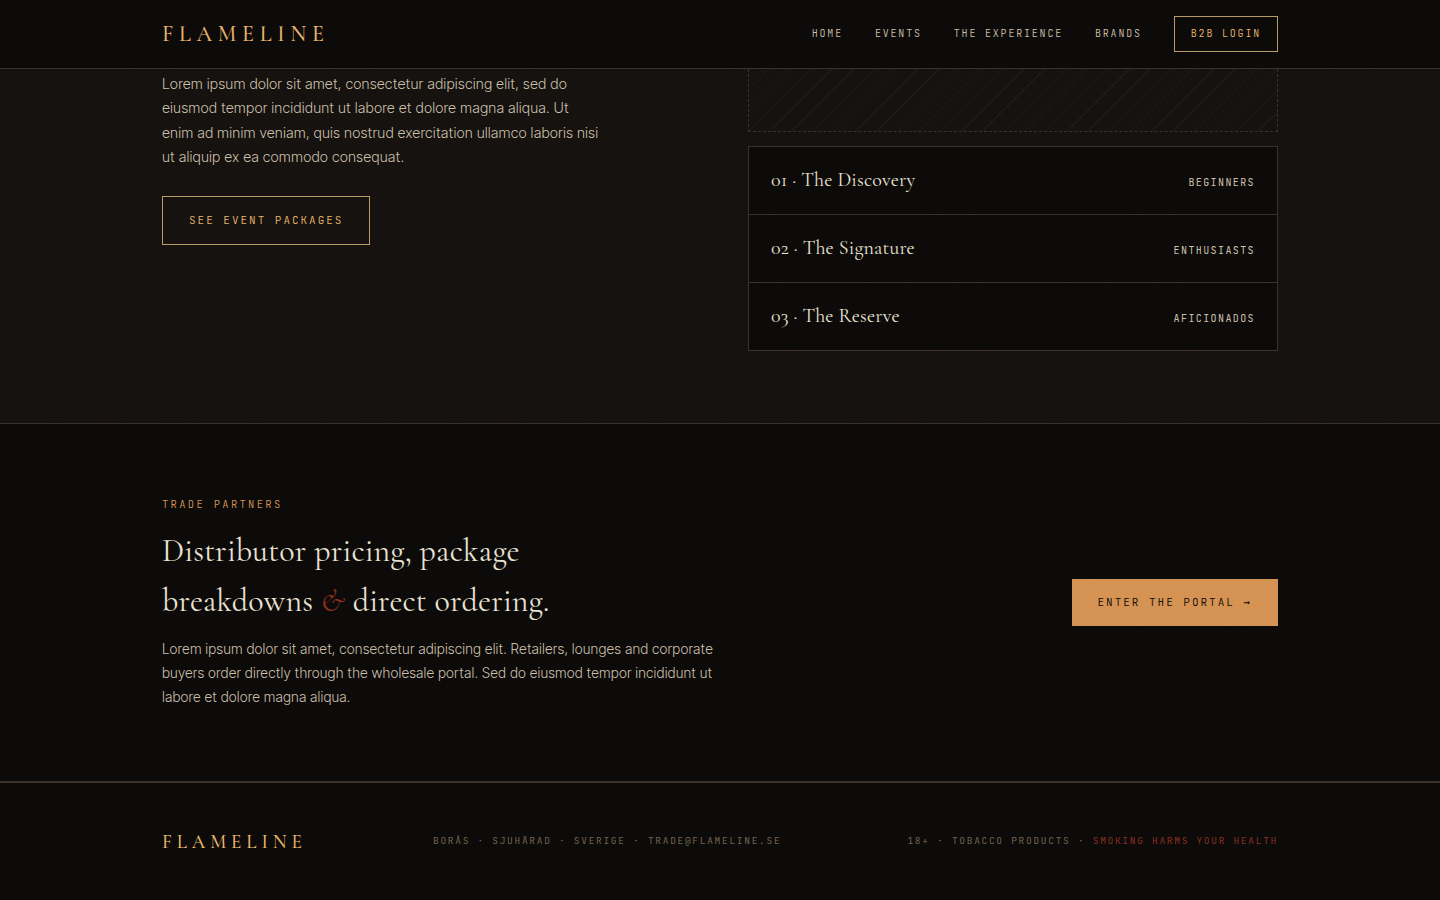
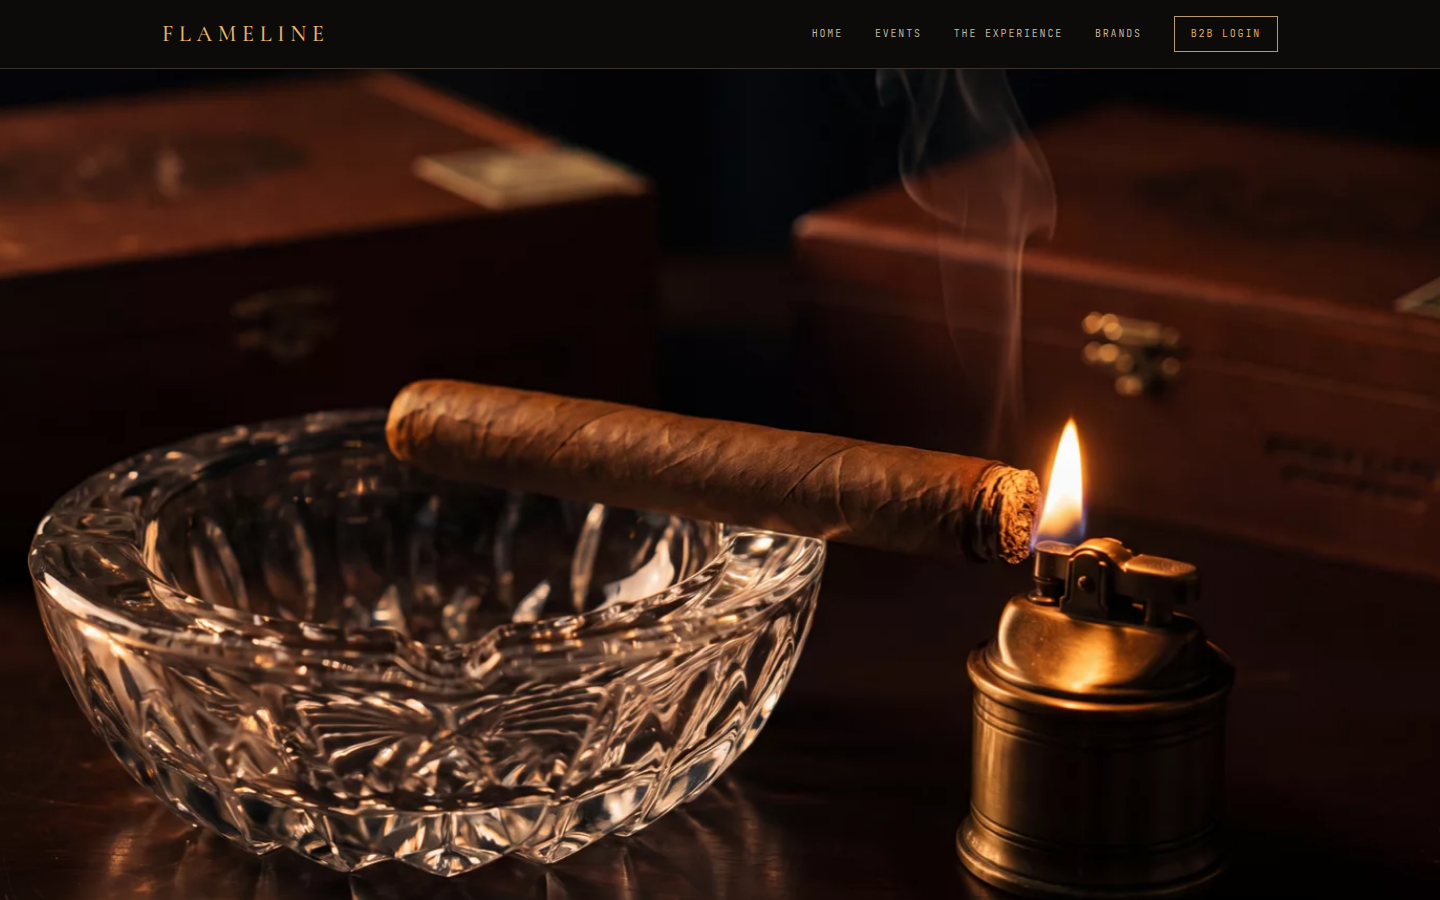
fix: no particles without atmosphere; fetch a failing clip once; finale copy clears before the body arrives
Claude-Session: https://claude.ai/code/session_01RKmJ1iWrN7f18RWAJzrLnn

diff --git a/lib/scroll-world/scrub-engine.js b/lib/scroll-world/scrub-engine.js
@@ -109,7 +109,10 @@ function mountScrollWorld(container, config) {
     sky.appendChild(el('div', 'sw-sky__grad'));
     sky.appendChild(el('div', 'sw-sky__glow'));
   }
-  const particles = el('div', 'sw-particles'); sky.appendChild(particles);
+  // Particles ride with the atmosphere flag: a page that turns the sky off
+  // gets no drifting dots either (they would show over bare ground at the seams).
+  const particles = config.atmosphere !== false ? el('div', 'sw-particles') : null;
+  if (particles) sky.appendChild(particles);
 
   const scrollbar = el('div', 'sw-scrollbar');
   const scrollbarFill = el('span'); scrollbar.appendChild(scrollbarFill);
@@ -189,7 +192,9 @@ function mountScrollWorld(container, config) {
     let off = 0;
     SEGMENTS.forEach(s => { s.start = off * vh; off += s.w; s.end = off * vh; });
     totalW = off;
-    track.style.height = (totalW * vh + vh) + 'px';   // +1vh so the last flight completes
+    // +1.5vh: the last flight completes, then the finale copy fades over 0.5vh
+    // before the body's top can enter the viewport, so the two never overlap.
+    track.style.height = (totalW * vh + 1.5 * vh) + 'px';
     read();
   }
 
@@ -201,7 +206,7 @@ function mountScrollWorld(container, config) {
   function loadClip(s) {
     // Under prefers-reduced-motion we never load the clips at all — the stills stay up
     // and simply cross-dissolve as you scroll. No scrubbed video motion, no decode cost.
-    if (reduce || s.loading || !s.clip) return;
+    if (reduce || s.loading || s.failed || !s.clip) return;
     s.loading = true;
     // Serve the lighter mobile encode on phones when one was provided.
     const url = (isMobile() && s.clipM) ? s.clipM : s.clip;
@@ -219,7 +224,7 @@ function mountScrollWorld(container, config) {
         v.addEventListener('seeked', () => { s.el.classList.add('has-clip'); }, { once: true });
         v.addEventListener('loadeddata', () => { try { v.pause(); } catch (e) {} if (userReady) primeVideo(v); });
         s.el.appendChild(v); s.video = v; s.hasClip = true;
-      }).catch(() => { s.loading = false; });
+      }).catch(() => { s.failed = true; s.loading = false; });   // one request per clip; the still stays up
   }
 
   function read() {
@@ -234,7 +239,8 @@ function mountScrollWorld(container, config) {
       const local = clamp((y - s.start) / (s.end - s.start), 0, 1);
       s.target = s.linger ? lingerEase(local, s.linger) : local;
       let outside = 0;
-      if (y < s.start) outside = s.start - y; else if (y > s.end) outside = y - s.end;
+      if (y < s.start) outside = s.start - y;
+      else if (y > s.end && i !== NSEG - 1) outside = y - s.end;   // the last scene holds its resting frame under the body
       const op = smooth(1 - outside / fade);
       s.el.style.opacity = op; s.visible = op > 0.001;
       s.el.style.zIndex = (i === ci) ? '120' : String(100 + Math.round(op * 10));
@@ -259,6 +265,7 @@ function mountScrollWorld(container, config) {
       c.style.opacity = cop;
       c.style.transform = reduce ? 'none' : `translateY(${(0.5 - pr) * 4}vh)`;
       c.style.pointerEvents = cop > 0.5 ? 'auto' : 'none';
+      if (i === N - 1) container.style.setProperty('--sw-scrim', after ? String(cop) : '1');   // scrim fades with the finale copy
     }
 
     const cur = SEGMENTS[ci];
@@ -316,7 +323,7 @@ function mountScrollWorld(container, config) {
   const onScroll = () => { if (!ticking) { ticking = true; requestAnimationFrame(read); } };
 
   // Particles are a per-frame cost we can't afford alongside video scrubbing on a phone.
-  seedParticles(particles, reduce || coarse);
+  if (particles) seedParticles(particles, reduce || coarse);
   window.addEventListener('scroll', onScroll, { passive: true });
   // Mobile browsers fire `resize` every time the URL bar slides in/out. Re-running
   // layout() there rebuilds the track height and yanks the scroll position, so on
@@ -410,7 +417,7 @@ function injectCSS() {
   .sw-scene__video,.sw-scene__still{position:absolute;inset:0;width:100%;height:100%;object-fit:cover;object-position:center 42%;}
   .sw-scene__still{will-change:transform;} .sw-scene.has-clip .sw-scene__still{opacity:0;} .sw-scene__video{z-index:1;}
   .sw-copylayer{position:fixed;inset:0;z-index:20;pointer-events:none;}
-  .sw-copylayer::before{content:"";position:absolute;inset:0;width:min(58vw,780px);background:linear-gradient(90deg,var(--sw-bg) 0%,color-mix(in srgb,var(--sw-bg) 82%,transparent) 34%,color-mix(in srgb,var(--sw-bg) 40%,transparent) 62%,transparent 100%);}
+  .sw-copylayer::before{content:"";position:absolute;inset:0;opacity:var(--sw-scrim,1);width:min(58vw,780px);background:linear-gradient(90deg,var(--sw-bg) 0%,color-mix(in srgb,var(--sw-bg) 82%,transparent) 34%,color-mix(in srgb,var(--sw-bg) 40%,transparent) 62%,transparent 100%);}
   .sw-copy{position:absolute;left:clamp(18px,5vw,64px);top:50%;transform:translateY(-50%);width:min(42vw,460px);opacity:0;will-change:opacity,transform;}
   .sw-copy__num{font-family:var(--sw-font-mono);font-size:10.5px;letter-spacing:.22em;color:var(--sw-ink-soft);}
   .sw-copy__eyebrow{display:block;margin-top:18px;font-family:var(--sw-font-mono);font-weight:400;font-size:10.5px;letter-spacing:.22em;text-transform:uppercase;color:var(--sw-accent);}

diff --git a/tests/engine.test.ts b/tests/engine.test.ts
@@ -75,3 +75,43 @@ test("unmount removes injected nodes", () => {
   un();
   expect(el.querySelector(".sw-stage")).toBeNull();
 });
+
+test("atmosphere:false renders no particles", () => {
+  const { el } = mount();
+  expect(el.querySelector(".sw-particles")).toBeNull();
+  expect(el.querySelectorAll(".sw-pt").length).toBe(0);
+});
+
+test("a clip that 404s is fetched once, not on every scroll", async () => {
+  const calls: string[] = [];
+  const realFetch = globalThis.fetch;
+  globalThis.fetch = ((url: string) => { calls.push(String(url)); return Promise.resolve({ ok: false } as Response); }) as typeof fetch;
+  try {
+    const el = document.createElement("div");
+    document.body.appendChild(el);
+    mountScrollWorld(el, buildConfig(SCENES, { stills: {}, clips: { field: "/assets/vid/field.mp4" } }));
+    for (let i = 0; i < 30; i++) {
+      (window as unknown as { scrollY: number }).scrollY = i * 10;
+      window.dispatchEvent(new Event("scroll"));
+      await new Promise((r) => setTimeout(r, 5));
+    }
+    expect(calls.filter((u) => u.endsWith("field.mp4")).length).toBe(1);
+  } finally {
+    globalThis.fetch = realFetch;
+  }
+});
+
+test("past the film the last scene holds, the scrim follows the finale copy, and the body cannot reach the copy until it is gone", async () => {
+  const { el } = mount();
+  const total = (1.7 + 1.4 + 1.4 + 1.8) * 1000;
+  expect(el.querySelector<HTMLElement>(".sw-track")!.style.height).toBe(`${total + 1500}px`);
+  (window as unknown as { scrollY: number }).scrollY = total + 300;
+  window.dispatchEvent(new Event("scroll"));
+  await new Promise((r) => setTimeout(r, 20));
+  const scenes = el.querySelectorAll<HTMLElement>(".sw-scene");
+  expect(Number(scenes[3].style.opacity)).toBe(1);
+  const cop = Number(el.querySelectorAll<HTMLElement>(".sw-copy")[3].style.opacity);
+  expect(cop).toBeGreaterThan(0);
+  expect(cop).toBeLessThan(1);
+  expect(Number(el.style.getPropertyValue("--sw-scrim"))).toBeCloseTo(cop, 3);
+});
